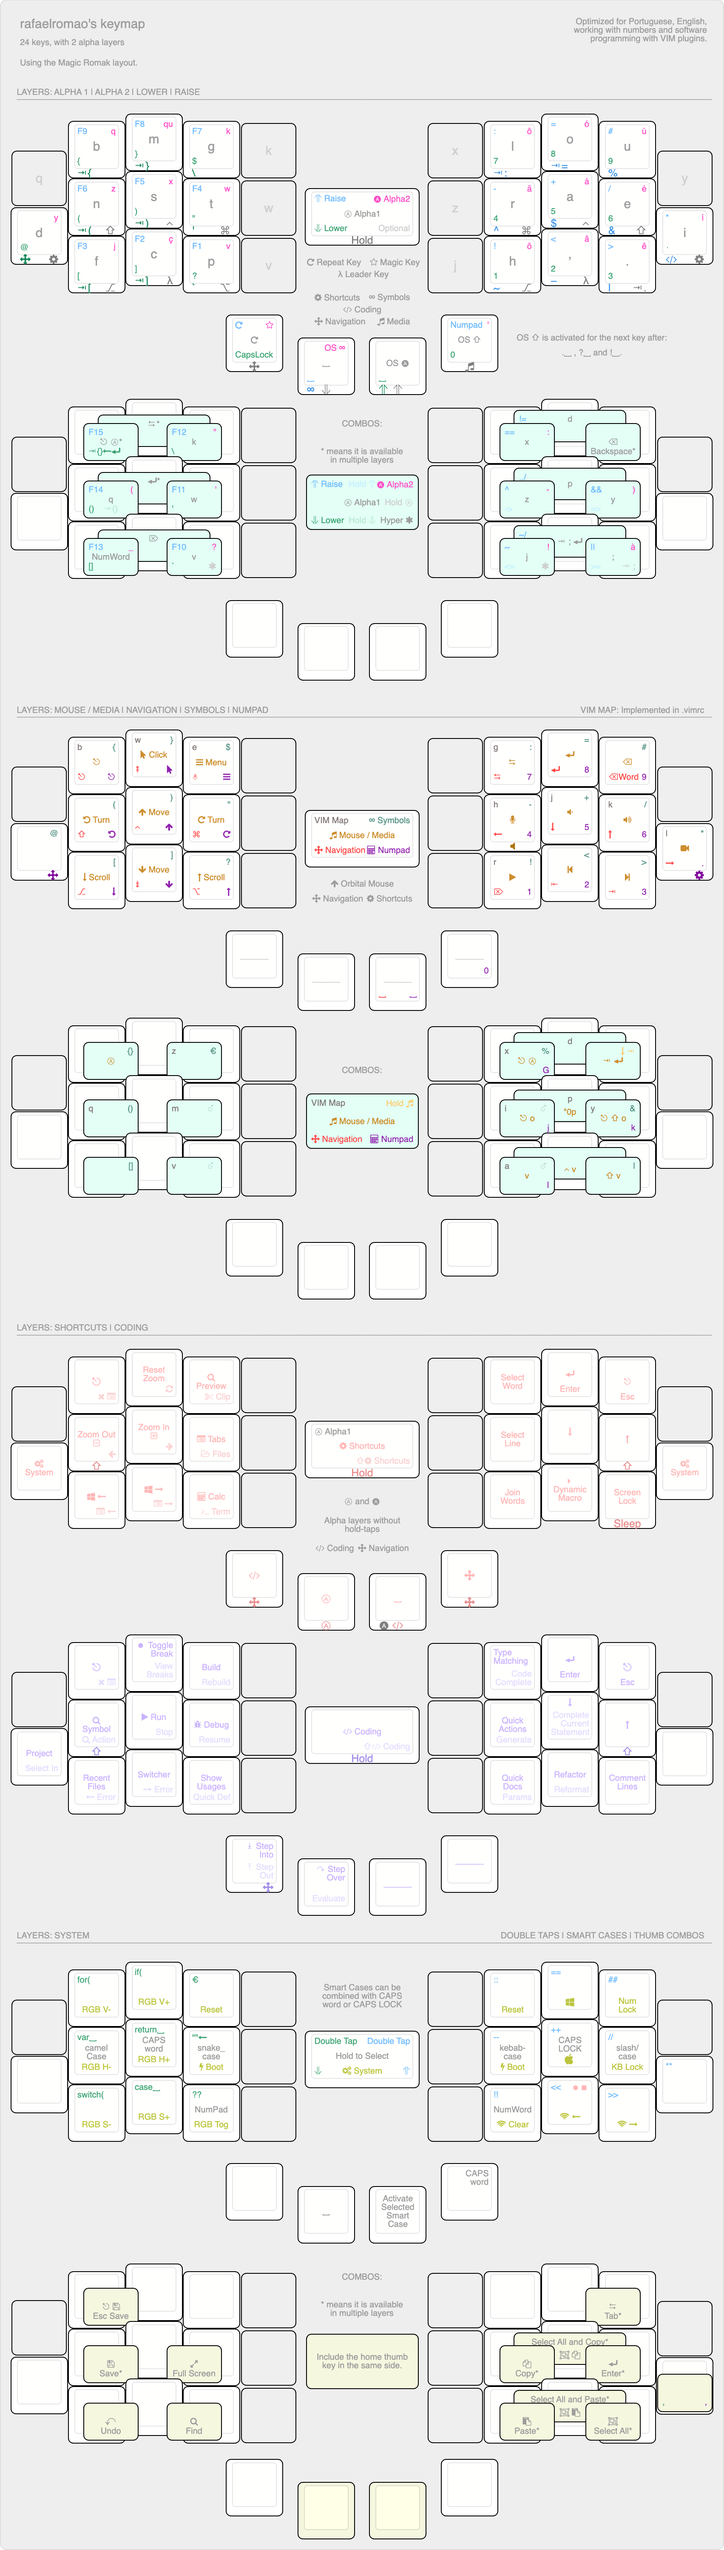
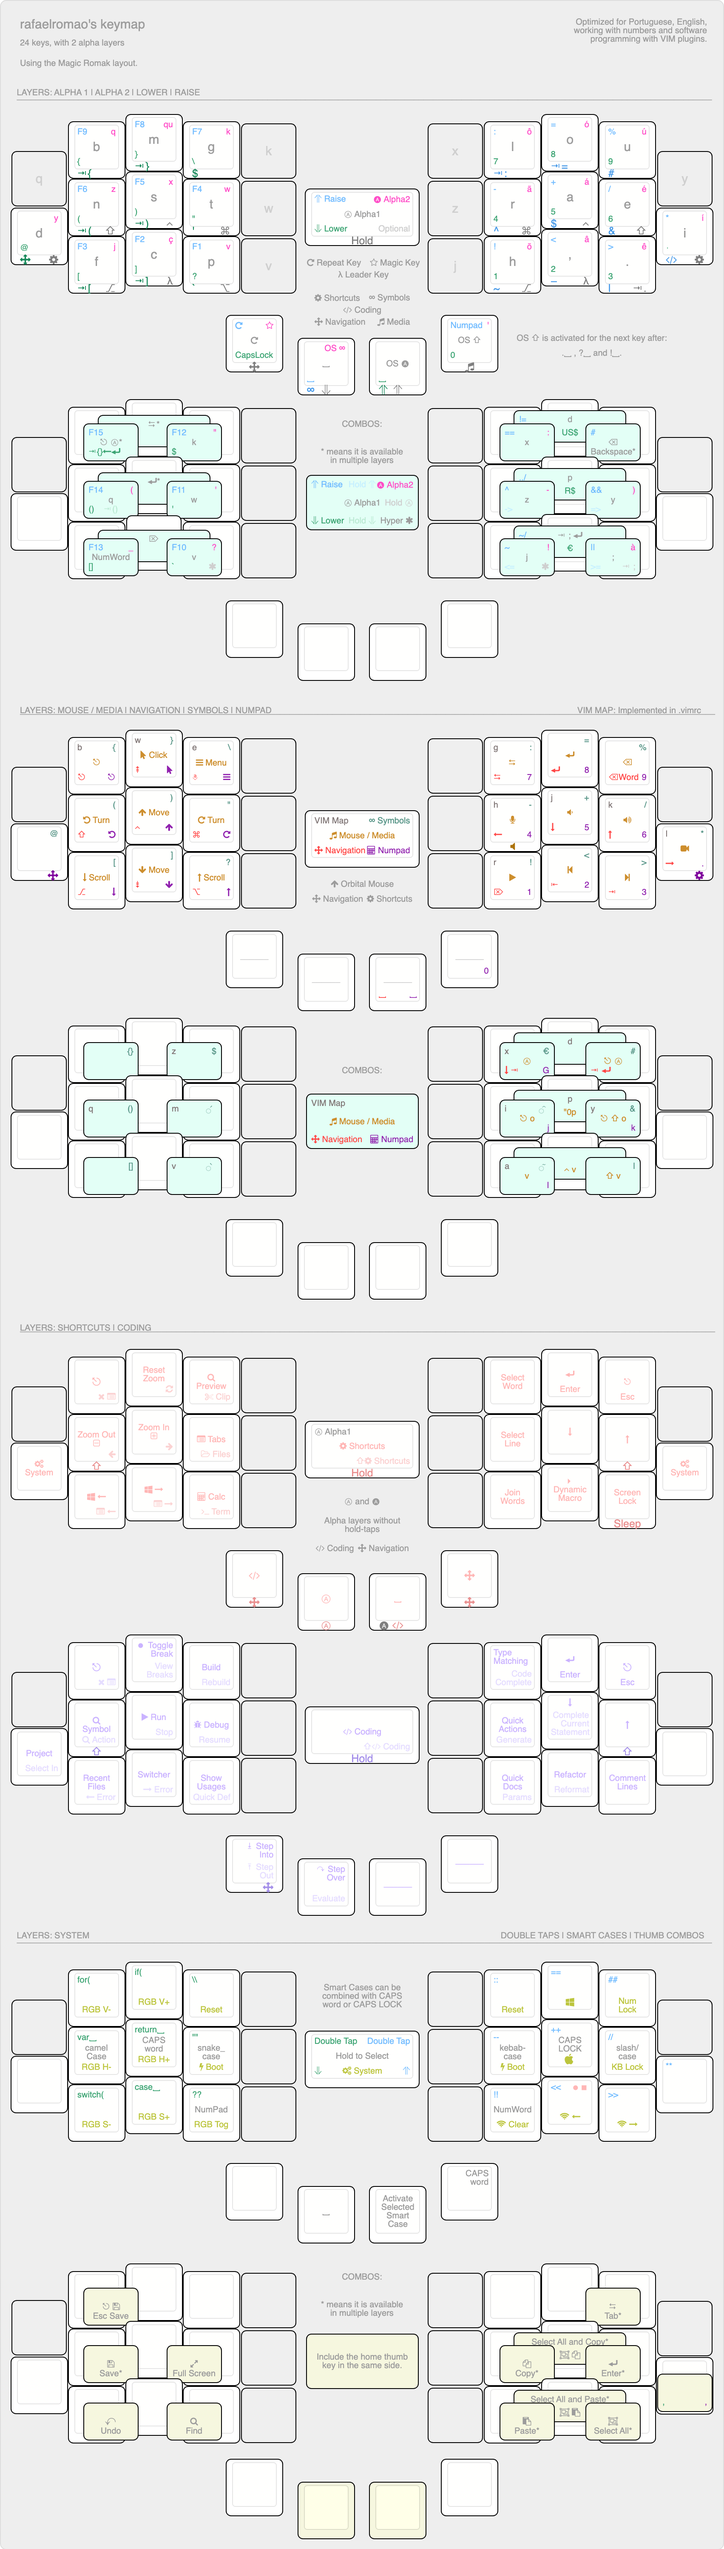
improve symbol layers and combos for numbers, media and navigation layers

diff --git a/src/qmk/users/rafaelromao/features/combos.c b/src/qmk/users/rafaelromao/features/combos.c
@@ -71,7 +71,7 @@ const uint16_t PROGMEM r_num_com_combo[] = {RAI_SPC, SHO_DOT, COMBO_END};
 // Lower
 
 const uint16_t PROGMEM l_low_cur_combo[] = {TD_LCBR, TD_RCBR, COMBO_END};
-const uint16_t PROGMEM l_low_bsl_combo[] = {TD_RCBR, TD_DLR, COMBO_END};
+const uint16_t PROGMEM l_low_dol_combo[] = {TD_RCBR, TD_BSLS, COMBO_END};
 const uint16_t PROGMEM l_low_par_combo[] = {TD_LPRN, TD_RPRN, COMBO_END};
 const uint16_t PROGMEM l_low_bra_combo[] = {TD_LBRC, TD_RBRC, COMBO_END};
 const uint16_t PROGMEM l_low_sqo_combo[] = {TD_RPRN, TD_DQUO, COMBO_END};
@@ -82,7 +82,9 @@ const uint16_t PROGMEM r_low_tab_combo[]  = {RAI_SPC, KC_8, KC_9, COMBO_END};
 const uint16_t PROGMEM r_low_ent_combo[]  = {RAI_SPC, KC_5, KC_6, COMBO_END};
 const uint16_t PROGMEM r_low_sco_combo[]  = {KC_2, KC_3, COMBO_END};
 const uint16_t PROGMEM r_low_com_combo[]  = {RAI_SPC, KC_DOT, COMBO_END};
-const uint16_t PROGMEM r_low_sent_combo[] = {KC_1, KC_2, KC_3, COMBO_END};
+const uint16_t PROGMEM r_low_us_combo[]   = {KC_7, KC_8, KC_9, COMBO_END};
+const uint16_t PROGMEM r_low_br_combo[]   = {KC_4, KC_5, KC_6, COMBO_END};
+const uint16_t PROGMEM r_low_eur_combo[]  = {KC_1, KC_2, KC_3, COMBO_END};
 const uint16_t PROGMEM r_low_sfg_combo[]  = {KC_7, KC_8, COMBO_END};
 const uint16_t PROGMEM r_low_j_combo[]    = {KC_4, KC_5, COMBO_END};
 const uint16_t PROGMEM r_low_k_combo[]    = {KC_5, KC_6, COMBO_END};
@@ -103,50 +105,50 @@ const uint16_t PROGMEM l_rai_f14_combo[] = {KC_F5, KC_F6, COMBO_END};
 const uint16_t PROGMEM l_rai_f15_combo[] = {KC_F8, KC_F9, COMBO_END};
 
 const uint16_t PROGMEM r_rai_deq_combo[]  = {TD_COLN, TD_EQL, COMBO_END};
-const uint16_t PROGMEM r_rai_neq_combo[]  = {TD_COLN, TD_EQL, TD_HASH, COMBO_END};
+const uint16_t PROGMEM r_rai_neq_combo[]  = {TD_COLN, TD_EQL, TD_PERC, COMBO_END};
 const uint16_t PROGMEM r_rai_cir_combo[]  = {TD_MINS, TD_PLUS, COMBO_END};
 const uint16_t PROGMEM r_rai_dan_combo[]  = {TD_PLUS, TD_SLSH, COMBO_END};
 const uint16_t PROGMEM r_rai_dds_combo[]  = {TD_MINS, TD_PLUS, TD_SLSH, COMBO_END};
-const uint16_t PROGMEM r_rai_bsp_combo[]  = {TD_EQL, TD_HASH, COMBO_END};
+const uint16_t PROGMEM r_rai_hash_combo[] = {TD_EQL, TD_PERC, COMBO_END};
 const uint16_t PROGMEM r_rai_til_combo[]  = {TD_EXLM, TD_LT, COMBO_END};
 const uint16_t PROGMEM r_rai_dor_combo[]  = {TD_LT, TD_GT, COMBO_END};
 const uint16_t PROGMEM r_rai_tisl_combo[] = {TD_EXLM, TD_LT, TD_GT, COMBO_END};
 
 // Navigation
 
-const uint16_t PROGMEM l_nav_esc_combo[] = {MC_ESC, KC_PGUP, COMBO_END};
-const uint16_t PROGMEM r_nav_ent_combo[] = {KC_SPC, KC_DOWN, KC_UP, COMBO_END};
-const uint16_t PROGMEM r_nav_cop_combo[] = {KC_SPC, KC_LEFT, KC_DOWN, COMBO_END};
-const uint16_t PROGMEM r_nav_pas_combo[] = {KC_SPC, KC_DEL, KC_HOME, COMBO_END};
-const uint16_t PROGMEM r_nav_bsp_combo[] = {KC_ENT, MC_DELW, COMBO_END};
+const uint16_t PROGMEM l_nav_esc_combo[]  = {MC_ESC, KC_PGUP, COMBO_END};
+const uint16_t PROGMEM r_nav_ent_combo[]  = {KC_SPC, KC_DOWN, KC_UP, COMBO_END};
+const uint16_t PROGMEM r_nav_cop_combo[]  = {KC_SPC, KC_LEFT, KC_DOWN, COMBO_END};
+const uint16_t PROGMEM r_nav_pas_combo[]  = {KC_SPC, KC_DEL, KC_HOME, COMBO_END};
+const uint16_t PROGMEM r_nav_eent_combo[] = {KC_ENT, MC_DELW, COMBO_END};
+const uint16_t PROGMEM r_nav_dent_combo[] = {MC_TAB, KC_ENT, COMBO_END};
 
 // Media
 
-const uint16_t PROGMEM l_med_a1_combo[]  = {KC_ESC, OM_BTN1, COMBO_END};
-const uint16_t PROGMEM r_med_ent_combo[] = {KC_ENT, KC_BSPC, COMBO_END};
+const uint16_t PROGMEM l_med_esc_combo[] = {KC_ESC, OM_BTN1, COMBO_END};
 const uint16_t PROGMEM r_med_vis_combo[] = {KC_MPLY, KC_MPRV, COMBO_END};
 const uint16_t PROGMEM r_med_svi_combo[] = {KC_MPRV, KC_MNXT, COMBO_END};
 const uint16_t PROGMEM r_med_cvi_combo[] = {KC_MPLY, KC_MPRV, KC_MNXT, COMBO_END};
 const uint16_t PROGMEM r_med_esp_combo[] = {MC_MIC, KC_VOLD, KC_VOLU, COMBO_END};
-const uint16_t PROGMEM r_med_esc_combo[] = {KC_TAB, KC_ENT, COMBO_END};
 const uint16_t PROGMEM r_med_oes_combo[] = {MC_MIC, KC_VOLD, COMBO_END};
 const uint16_t PROGMEM r_med_soe_combo[] = {KC_VOLD, KC_VOLU, COMBO_END};
+const uint16_t PROGMEM r_med_a1_combo[]  = {KC_TAB, KC_ENT, COMBO_END};
+const uint16_t PROGMEM r_med_esc_combo[] = {KC_ENT, KC_BSPC, COMBO_END};
 
 // Symbols
 
-const uint16_t PROGMEM l_sym_eur_combo[] = {KC_RCBR, KC_DLR, COMBO_END};
+const uint16_t PROGMEM l_sym_dlr_combo[] = {KC_RCBR, KC_DLR, COMBO_END};
 const uint16_t PROGMEM l_sym_cur_combo[] = {KC_LCBR, KC_RCBR, COMBO_END};
 const uint16_t PROGMEM l_sym_par_combo[] = {KC_LPRN, KC_RPRN, COMBO_END};
 const uint16_t PROGMEM l_sym_bra_combo[] = {KC_LBRC, KC_RBRC, COMBO_END};
 const uint16_t PROGMEM l_sym_quo_combo[] = {KC_RPRN, MC_DQUO, COMBO_END};
 const uint16_t PROGMEM l_sym_grv_combo[] = {KC_RBRC, KC_QUES, COMBO_END};
 
-const uint16_t PROGMEM r_sym_perc_combo[] = {KC_COLN, KC_EQL, COMBO_END};
-const uint16_t PROGMEM r_sym_cir_combo[]  = {KC_MINS, KC_PLUS, COMBO_END};
-const uint16_t PROGMEM r_sym_til_combo[]  = {KC_EXLM, KC_LT, COMBO_END};
-const uint16_t PROGMEM r_sym_bsp_combo[]  = {KC_EQL, KC_HASH, COMBO_END};
-const uint16_t PROGMEM r_sym_amp_combo[]  = {KC_PLUS, KC_SLSH, COMBO_END};
-const uint16_t PROGMEM r_sym_pip_combo[]  = {KC_LT, KC_GT, COMBO_END};
+const uint16_t PROGMEM r_sym_eur_combo[] = {KC_COLN, KC_EQL, COMBO_END};
+const uint16_t PROGMEM r_sym_cir_combo[] = {KC_MINS, KC_PLUS, COMBO_END};
+const uint16_t PROGMEM r_sym_til_combo[] = {KC_EXLM, KC_LT, COMBO_END};
+const uint16_t PROGMEM r_sym_amp_combo[] = {KC_PLUS, KC_SLSH, COMBO_END};
+const uint16_t PROGMEM r_sym_pip_combo[] = {KC_LT, KC_GT, COMBO_END};
 
 // Coding and Shortcuts
 
@@ -158,46 +160,46 @@ const uint16_t PROGMEM r_sho_bsp_combo[] = {MC_ENT, MC_ESC, COMBO_END};
 const uint16_t PROGMEM secret_1_combo[] = {SEC_1, SEC_2, SEC_3, SEC_4, COMBO_END};
 
 combo_t key_combos[] = {
-    COMBO(l_med_a1_combo, TO_A1),       COMBO(l_low_sqo_combo, MC_SQUO),  COMBO(l_low_bti_combo, MC_BTIC),
-    COMBO(r_low_sfg_combo, LSFT(KC_L)), COMBO(l_low_bsl_combo, KC_BSLS),  COMBO(r_low_sent_combo, MC_SENT),
-    COMBO(r_low_j_combo, KC_A),         COMBO(r_low_k_combo, KC_E),       COMBO(r_low_pip_combo, KC_PIPE),
-    COMBO(l_sym_cur_combo, MC_CURS),    COMBO(l_sym_par_combo, TD_PARN),  COMBO(l_sym_bra_combo, MC_BRAC),
-    COMBO(l_sym_quo_combo, KC_QUOT),    COMBO(l_sym_grv_combo, KC_GRV),   COMBO(l_sym_eur_combo, MC_EUR),
-    COMBO(r_sym_perc_combo, KC_PERC),   COMBO(r_sym_cir_combo, KC_CIRC),  COMBO(r_sym_amp_combo, KC_AMPR),
-    COMBO(r_sym_pip_combo, KC_PIPE),    COMBO(r_sym_til_combo, KC_TILD),  COMBO(r_sym_bsp_combo, KC_BSPC),
-    COMBO(r_low_com_combo, KC_COMM),    COMBO(r_num_com_combo, KC_COMM),  COMBO(l_acc_esc_combo, MC_ESCC),
-    COMBO(l_acc_und_combo, KC_UNDS),    COMBO(l_acc_ques_combo, MC_QUES), COMBO(l_acc_dqo_combo, MC_DQUO),
-    COMBO(l_low_cur_combo, MC_CUR),     COMBO(l_low_bra_combo, MC_BRAC),  COMBO(l_low_par_combo, TD_PARN),
-    COMBO(l_nav_esc_combo, MC_ESCC),    COMBO(l_num_ent_combo, KC_ENT),   COMBO(l_num_num_combo, TO_A1),
-    COMBO(l_num_sav_combo, MC_SAVE),    COMBO(l_rai_f10_combo, KC_F10),   COMBO(l_rai_f11_combo, KC_F11),
-    COMBO(l_rai_f12_combo, KC_F12),     COMBO(l_rai_f13_combo, KC_F13),   COMBO(l_rai_f14_combo, KC_F14),
-    COMBO(l_rai_f15_combo, KC_F15),     COMBO(l_rom_esc_combo, MC_ESCC),  COMBO(l_rom_esv_combo, MC_ESAV),
-    COMBO(l_rom_fin_combo, MC_FIND),    COMBO(l_rom_ful_combo, MC_FULL),  COMBO(l_rom_del_combo, KC_DEL),
-    COMBO(l_rom_q_combo, KC_Q),         COMBO(l_rom_k_combo, KC_K),       COMBO(l_nom_num_combo, TG_NUMC),
-    COMBO(l_rom_num_combo, TG_NUMC),    COMBO(l_rom_sav_combo, MC_SAVE),  COMBO(l_rom_und_combo, MC_UNDO),
-    COMBO(l_rom_v_combo, HYP_KCV),      COMBO(l_rom_w_combo, KC_W),       COMBO(l_acc_lpa_combo, KC_LPRN),
-    COMBO(l_acc_sqo_combo, MC_SQUO),    COMBO(r_acc_rpa_combo, KC_RPRN),  COMBO(r_acc_bsp_combo, KC_BSPC),
-    COMBO(r_acc_col_combo, KC_COLN),    COMBO(r_acc_excl_combo, MC_EXLM), COMBO(r_acc_min_combo, KC_MINS),
-    COMBO(r_acc_agr_combo, MC_GV_A),    COMBO(r_low_ent_combo, KC_ENT),   COMBO(r_low_sco_combo, TD_SCLE),
-    COMBO(r_med_ent_combo, TD_EENT),    COMBO(r_med_vis_combo, KC_V),     COMBO(r_med_svi_combo, MC_SVI),
-    COMBO(r_med_esc_combo, MC_ESC),     COMBO(r_med_esp_combo, MC_0P),    COMBO(r_med_cvi_combo, MC_CVI),
-    COMBO(r_med_oes_combo, MC_OESC),    COMBO(r_med_soe_combo, MC_SOES),  COMBO(r_nav_cop_combo, MC_COPY),
-    COMBO(r_nav_ent_combo, KC_ENT),     COMBO(r_nav_pas_combo, MC_PAST),  COMBO(r_low_bsp_combo, KC_BSPC),
-    COMBO(r_nav_bsp_combo, KC_BSPC),    COMBO(l_num_tab_combo, KC_TAB),   COMBO(l_num_del_combo, KC_DEL),
-    COMBO(r_low_tab_combo, KC_TAB),     COMBO(r_rai_bsp_combo, KC_BSPC),  COMBO(r_rai_deq_combo, MC_DEQ),
-    COMBO(r_rai_til_combo, TD_TIL),     COMBO(r_rai_dor_combo, TD_DOR),   COMBO(r_rai_tisl_combo, MC_TISL),
-    COMBO(r_rai_dds_combo, MC_DDS),     COMBO(r_rai_neq_combo, MC_NEQ),   COMBO(r_rai_dan_combo, TD_DAND),
-    COMBO(r_rai_cir_combo, TD_CIRC),    COMBO(r_rom_bsp_combo, KC_BSPC),  COMBO(r_rom_d_combo, KC_D),
-    COMBO(r_rom_p_combo, KC_P),         COMBO(l_rom_ent_combo, KC_ENT),   COMBO(r_rom_ent_combo, KC_ENT),
-    COMBO(r_rom_j_combo, HYP_KCJ),      COMBO(r_rom_cop_combo, MC_COPY),  COMBO(r_rom_pas_combo, MC_PAST),
-    COMBO(r_rom_sal_combo, MC_SELC),    COMBO(r_rom_scp_combo, MC_SCOP),  COMBO(r_rom_spa_combo, MC_SPAS),
-    COMBO(r_low_cop_combo, MC_COPY),    COMBO(r_low_pas_combo, MC_PAST),  COMBO(r_low_sal_combo, MC_SELC),
-    COMBO(r_low_scp_combo, MC_SCOP),    COMBO(r_low_spa_combo, MC_SPAS),  COMBO(r_rom_sco_combo, TD_SCLE),
-    COMBO(r_rom_sent_combo, MC_SENT),   COMBO(l_rom_tab_combo, KC_TAB),   COMBO(r_rom_tab_combo, KC_TAB),
-    COMBO(l_acc_ent_combo, KC_ENT),     COMBO(r_acc_ent_combo, KC_ENT),   COMBO(l_acc_tab_combo, KC_TAB),
-    COMBO(r_acc_tab_combo, KC_TAB),     COMBO(r_rom_z_combo, KC_Z),       COMBO(r_rom_x_combo, KC_X),
-    COMBO(r_rom_y_combo, KC_Y),         COMBO(r_sho_bsp_combo, KC_BSPC),  COMBO(l_cod_esc_combo, MC_ESCC),
-    COMBO(secret_1_combo, MC_SECRET_1)};
+    COMBO(l_med_esc_combo, MC_ESCC),    COMBO(l_low_sqo_combo, MC_SQUO),  COMBO(l_low_bti_combo, MC_BTIC),
+    COMBO(r_low_sfg_combo, LSFT(KC_L)), COMBO(l_low_dol_combo, KC_DLR),   COMBO(r_low_us_combo, MC_US),
+    COMBO(r_low_br_combo, MC_BR),       COMBO(r_low_eur_combo, MC_EUR),   COMBO(r_low_j_combo, KC_A),
+    COMBO(r_low_k_combo, KC_E),         COMBO(r_low_pip_combo, KC_PIPE),  COMBO(l_sym_cur_combo, MC_CURS),
+    COMBO(l_sym_par_combo, TD_PARN),    COMBO(l_sym_bra_combo, MC_BRAC),  COMBO(l_sym_quo_combo, KC_QUOT),
+    COMBO(l_sym_grv_combo, KC_GRV),     COMBO(l_sym_dlr_combo, KC_DLR),   COMBO(r_sym_eur_combo, MC_EUR),
+    COMBO(r_sym_cir_combo, KC_CIRC),    COMBO(r_sym_amp_combo, KC_AMPR),  COMBO(r_sym_pip_combo, KC_PIPE),
+    COMBO(r_sym_til_combo, KC_TILD),    COMBO(r_low_com_combo, KC_COMM),  COMBO(r_num_com_combo, KC_COMM),
+    COMBO(l_acc_esc_combo, MC_ESCC),    COMBO(l_acc_und_combo, KC_UNDS),  COMBO(l_acc_ques_combo, MC_QUES),
+    COMBO(l_acc_dqo_combo, MC_DQUO),    COMBO(l_low_cur_combo, MC_CUR),   COMBO(l_low_bra_combo, MC_BRAC),
+    COMBO(l_low_par_combo, TD_PARN),    COMBO(l_nav_esc_combo, MC_ESCC),  COMBO(l_num_ent_combo, KC_ENT),
+    COMBO(l_num_num_combo, TO_A1),      COMBO(l_num_sav_combo, MC_SAVE),  COMBO(l_rai_f10_combo, KC_F10),
+    COMBO(l_rai_f11_combo, KC_F11),     COMBO(l_rai_f12_combo, KC_F12),   COMBO(l_rai_f13_combo, KC_F13),
+    COMBO(l_rai_f14_combo, KC_F14),     COMBO(l_rai_f15_combo, KC_F15),   COMBO(l_rom_esc_combo, MC_ESCC),
+    COMBO(l_rom_esv_combo, MC_ESAV),    COMBO(l_rom_fin_combo, MC_FIND),  COMBO(l_rom_ful_combo, MC_FULL),
+    COMBO(l_rom_del_combo, KC_DEL),     COMBO(l_rom_q_combo, KC_Q),       COMBO(l_rom_k_combo, KC_K),
+    COMBO(l_nom_num_combo, TG_NUMC),    COMBO(l_rom_num_combo, TG_NUMC),  COMBO(l_rom_sav_combo, MC_SAVE),
+    COMBO(l_rom_und_combo, MC_UNDO),    COMBO(l_rom_v_combo, HYP_KCV),    COMBO(l_rom_w_combo, KC_W),
+    COMBO(l_acc_lpa_combo, KC_LPRN),    COMBO(l_acc_sqo_combo, MC_SQUO),  COMBO(r_acc_rpa_combo, KC_RPRN),
+    COMBO(r_acc_bsp_combo, KC_BSPC),    COMBO(r_acc_col_combo, KC_COLN),  COMBO(r_acc_excl_combo, MC_EXLM),
+    COMBO(r_acc_min_combo, KC_MINS),    COMBO(r_acc_agr_combo, MC_GV_A),  COMBO(r_low_ent_combo, KC_ENT),
+    COMBO(r_low_sco_combo, TD_SCLE),    COMBO(r_med_a1_combo, TO_A1),     COMBO(r_med_vis_combo, KC_V),
+    COMBO(r_med_svi_combo, MC_SVI),     COMBO(r_med_esc_combo, MC_ESCC),  COMBO(r_med_esp_combo, MC_0P),
+    COMBO(r_med_cvi_combo, MC_CVI),     COMBO(r_med_oes_combo, MC_OESC),  COMBO(r_med_soe_combo, MC_SOES),
+    COMBO(r_nav_cop_combo, MC_COPY),    COMBO(r_nav_ent_combo, KC_ENT),   COMBO(r_nav_pas_combo, MC_PAST),
+    COMBO(r_low_bsp_combo, KC_BSPC),    COMBO(r_nav_eent_combo, MC_EENT), COMBO(r_nav_dent_combo, MC_DEND),
+    COMBO(l_num_tab_combo, KC_TAB),     COMBO(l_num_del_combo, KC_DEL),   COMBO(r_low_tab_combo, KC_TAB),
+    COMBO(r_rai_hash_combo, KC_HASH),   COMBO(r_rai_deq_combo, MC_DEQ),   COMBO(r_rai_til_combo, TD_TIL),
+    COMBO(r_rai_dor_combo, TD_DOR),     COMBO(r_rai_tisl_combo, MC_TISL), COMBO(r_rai_dds_combo, MC_DDS),
+    COMBO(r_rai_neq_combo, MC_NEQ),     COMBO(r_rai_dan_combo, TD_DAND),  COMBO(r_rai_cir_combo, TD_CIRC),
+    COMBO(r_rom_bsp_combo, KC_BSPC),    COMBO(r_rom_d_combo, KC_D),       COMBO(r_rom_p_combo, KC_P),
+    COMBO(l_rom_ent_combo, KC_ENT),     COMBO(r_rom_ent_combo, KC_ENT),   COMBO(r_rom_j_combo, HYP_KCJ),
+    COMBO(r_rom_cop_combo, MC_COPY),    COMBO(r_rom_pas_combo, MC_PAST),  COMBO(r_rom_sal_combo, MC_SELC),
+    COMBO(r_rom_scp_combo, MC_SCOP),    COMBO(r_rom_spa_combo, MC_SPAS),  COMBO(r_low_cop_combo, MC_COPY),
+    COMBO(r_low_pas_combo, MC_PAST),    COMBO(r_low_sal_combo, MC_SELC),  COMBO(r_low_scp_combo, MC_SCOP),
+    COMBO(r_low_spa_combo, MC_SPAS),    COMBO(r_rom_sco_combo, TD_SCLE),  COMBO(r_rom_sent_combo, MC_SENT),
+    COMBO(l_rom_tab_combo, KC_TAB),     COMBO(r_rom_tab_combo, KC_TAB),   COMBO(l_acc_ent_combo, KC_ENT),
+    COMBO(r_acc_ent_combo, KC_ENT),     COMBO(l_acc_tab_combo, KC_TAB),   COMBO(r_acc_tab_combo, KC_TAB),
+    COMBO(r_rom_z_combo, KC_Z),         COMBO(r_rom_x_combo, KC_X),       COMBO(r_rom_y_combo, KC_Y),
+    COMBO(r_sho_bsp_combo, KC_BSPC),    COMBO(l_cod_esc_combo, MC_ESCC),  COMBO(secret_1_combo, MC_SECRET_1)};
 
 bool combo_should_trigger(uint16_t combo_index, combo_t *combo, uint16_t keycode, keyrecord_t *record) {
     switch (combo->keycode) {

diff --git a/src/qmk/users/rafaelromao/definitions/keymap_blocks.h b/src/qmk/users/rafaelromao/definitions/keymap_blocks.h
@@ -15,7 +15,7 @@
 #define __________________ALPHA1_R3__________           KC_J    , RALTT_H , TD_COMM , TD_DOT  
 #define ___ALPHA1_R4_____                               RAI_A2  , MED_CAS 
 
-#define ___________________LOWER_L1__________           XXXXXXX , TD_LCBR , TD_RCBR , TD_DLR 
+#define ___________________LOWER_L1__________           XXXXXXX , TD_LCBR , TD_RCBR , TD_BSLS
 #define ___________________LOWER_L2____________________ NAV_AT  , TD_LPRN , TD_RPRN , TD_DQUO , XXXXXXX
 #define           _________LOWER_L3____________________           TD_LBRC , TD_RBRC , TD_QUES , XXXXXXX
 #define                               ____LOWER_L4_____                               KC_CAPS , _______
@@ -30,7 +30,7 @@
 #define           _________RAISE_L3____________________           KC_F3   , KC_F2   , KC_F1   , XXXXXXX
 #define                               ____RAISE_L4_____                               QK_REP  , SYM_SPC
 
-#define           _________RAISE_R1____________________           TD_COLN , TD_EQL  , TD_HASH , XXXXXXX
+#define           _________RAISE_R1____________________           TD_COLN , TD_EQL  , TD_PERC , XXXXXXX
 #define ___________________RAISE_R2____________________ XXXXXXX , TD_MINS , TD_PLUS , TD_SLSH , COD_AST
 #define ___________________RAISE_R3__________           XXXXXXX , TD_EXLM , TD_LT   , TD_GT     
 #define ____RAISE_R4_____                               _______ , TG_NUM
@@ -90,7 +90,7 @@
 #define           _______SYMBOLS_L3____________________           KC_LBRC , KC_RBRC , KC_QUES , XXXXXXX
 #define                               __SYMBOLS_L4_____                               KC_CAPS , KC_SPC 
 
-#define           _______SYMBOLS_R1____________________           KC_COLN , KC_EQL  , KC_HASH , XXXXXXX
+#define           _______SYMBOLS_R1____________________           KC_COLN , KC_EQL  , KC_PERC , XXXXXXX
 #define _________________SYMBOLS_R2____________________ XXXXXXX , KC_MINS , KC_PLUS , KC_SLSH , KC_ASTR
 #define _________________SYMBOLS_R3__________           XXXXXXX , KC_EXLM , KC_LT   , KC_GT     
 #define __SYMBOLS_R4_____                               KC_SPC  , TG_NUM
@@ -101,7 +101,7 @@
 #define                               __NAVIGATION_L4__                               _______ , _______
 #define                               __FIXED_NAV__L4__                               _______ , KC_SPC
 
-#define           _________NAVIGATION_R1_______________           KC_TAB  , KC_ENT  , MC_DELW , XXXXXXX
+#define           _________NAVIGATION_R1_______________           MC_TAB  , KC_ENT  , MC_DELW , XXXXXXX
 #define ___________________NAVIGATION_R2_______________ XXXXXXX , KC_LEFT , KC_DOWN , KC_UP   , KC_RGHT
 #define ___________________NAVIGATION_R3_____           XXXXXXX , KC_DEL  , KC_HOME , KC_END  
 #define __NAVIGATION_R4__                               KC_SPC  , MED_CAS

diff --git a/src/qmk/users/rafaelromao/features/tapdance.c b/src/qmk/users/rafaelromao/features/tapdance.c
@@ -78,22 +78,6 @@ void td_close_parentesis(tap_dance_state_t *state, void *user_data) {
     }
 }
 
-void td_enter_end(tap_dance_state_t *state, void *user_data) {
-    tap_state.state = dance_state(state);
-    switch (tap_state.state) {
-        case TD_SINGLE_TAP:
-            tap_code16(KC_END);
-            tap_code(KC_ENT);
-            break;
-        case TD_DOUBLE_TAP:
-        case TD_SINGLE_HOLD:
-            SEND_STRING(SS_TAP(X_DOWN) SS_DELAY(100) SS_TAP(X_END));
-            break;
-        default:
-            break;
-    }
-}
-
 void td_open_curly_braces(tap_dance_state_t *state, void *user_data) {
     tap_state.state = dance_state(state);
     switch (tap_state.state) {
@@ -153,13 +137,14 @@ void td_dlr(tap_dance_state_t *state, void *user_data) {
     tap_state.state = dance_state(state);
     switch (tap_state.state) {
         case TD_SINGLE_TAP:
-            tap_code16(KC_DLR);
-            break;
-        case TD_SINGLE_HOLD:
             tap_code16(KC_BSLS);
             break;
+        case TD_SINGLE_HOLD:
+            tap_code16(KC_DLR);
+            break;
         case TD_DOUBLE_TAP:
-            process_macros(MC_EUR, NULL);
+            tap_code16(KC_BSLS);
+            tap_code16(KC_BSLS);
             break;
         default:
             break;
@@ -427,19 +412,10 @@ void td_hash(tap_dance_state_t *state, void *user_data) {
 
     switch (tap_state.state) {
         case TD_SINGLE_TAP:
-            tap_code16(KC_HASH);
-            break;
-        case TD_DOUBLE_TAP:
-            tap_code16(KC_HASH);
-            tap_code16(KC_HASH);
-            break;
-        case TD_TRIPLE_TAP:
-            tap_code16(KC_HASH);
-            tap_code16(KC_HASH);
-            tap_code16(KC_HASH);
+            tap_code16(KC_PERC);
             break;
         case TD_SINGLE_HOLD:
-            tap_code16(KC_PERC);
+            tap_code16(KC_HASH);
             break;
         default:
             break;
@@ -591,7 +567,6 @@ void td_dand(tap_dance_state_t *state, void *user_data) {
 // Tap dance declarations
 
 tap_dance_action_t tap_dance_actions[] = {
-    [ENT_END] = ACTION_TAP_DANCE_FN(td_enter_end),
     [SCL_END] = ACTION_TAP_DANCE_FN(td_semicolon),
     [BRT_LCR] = ACTION_TAP_DANCE_FN(td_open_curly_braces),
     [BRT_RCR] = ACTION_TAP_DANCE_FN(td_close_curly_braces),

diff --git a/src/qmk/users/rafaelromao/definitions/keycodes.h b/src/qmk/users/rafaelromao/definitions/keycodes.h
@@ -8,7 +8,6 @@
 
 enum { 
     TD_CODE_START, 
-    ENT_END, 
     SCL_END, 
     BRT_LCR, 
     BRT_RCR, 
@@ -43,7 +42,6 @@ enum {
 
 // Tap dance keycodes
 
-#define TD_EENT TD(ENT_END)
 #define TD_SCLE TD(SCL_END)
 #define TD_LCBR TD(BRT_LCR)
 #define TD_RCBR TD(BRT_RCR)
@@ -65,7 +63,7 @@ enum {
 #define TD_COMM TD(LEA_COM)
 #define TD_MINS TD(MIN_CIR)
 #define TD_COLN TD(COL_ECO)
-#define TD_HASH TD(HAS_PER)
+#define TD_PERC TD(HAS_PER)
 #define TD_QUES TD(QUE_EXC)
 #define TD_SLSH TD(SLS_BSL)
 #define TD_EQL TD(EQL_EEQ)
@@ -74,7 +72,7 @@ enum {
 #define TD_DOR TD(DOR_GTE)
 #define TD_CIRC TD(CIR_SAR)
 #define TD_DAND TD(DAN_DAR)
-#define TD_DLR TD(DLR_BSL)
+#define TD_BSLS TD(DLR_BSL)
 
 // Custom keycodes
 
@@ -116,7 +114,7 @@ enum {
     TG_NUMC, MC_EXLM, MC_QUES, MC_ESAV, MC_SENT, MC_DEG, MC_DELW, MC_LY,
     MC_CUR, MC_CURS, MC_DAR, MC_SAR, MC_DEQ, MC_NEQ, MC_BRAC, MC_SEC, 
     MC_DAND, MC_DPIP, MC_OESC, MC_SOES, MC_TISL, MC_SVI, MC_CVI, MC_0P,
-    REPEAT, MAGIC, MC_JOIN,
+    REPEAT, MAGIC, MC_JOIN, MC_EENT, MC_DEND, MC_US, MC_BR,
 
     // End macros that can be shifted
     SFT_MACRO_END,

diff --git a/src/qmk/users/rafaelromao/definitions/keycodes.c b/src/qmk/users/rafaelromao/definitions/keycodes.c
@@ -36,8 +36,8 @@ uint16_t extract_tapping_keycode(uint16_t keycode) {
             return KC_MINS;
         case TD_COLN:
             return KC_COLN;
-        case TD_DLR:
-            return KC_DLR;
+        case TD_BSLS:
+            return KC_BSLS;
         case TD_QUES:
         case MC_QUES:
             return KC_QUES;
@@ -51,8 +51,8 @@ uint16_t extract_tapping_keycode(uint16_t keycode) {
             return MC_TILD;
         case TD_CIRC:
             return MC_CIRC;
-        case TD_HASH:
-            return KC_HASH;
+        case TD_PERC:
+            return KC_PERC;
         default:
             break;
     }

diff --git a/src/qmk/users/rafaelromao/features/shortcuts.c b/src/qmk/users/rafaelromao/features/shortcuts.c
@@ -218,6 +218,19 @@ process_record_result_t process_shortcut_keycode(uint16_t keycode, bool isOneSho
             }
             return PROCESS_RECORD_RETURN_FALSE;
 
+            // End Enter
+
+        case MC_EENT:
+            tap_code16(KC_END);
+            tap_code(KC_ENT);
+            return PROCESS_RECORD_RETURN_FALSE;
+
+            // End Enter
+
+        case MC_DEND:
+            SEND_STRING(SS_TAP(X_DOWN) SS_DELAY(100) SS_TAP(X_END));
+            return PROCESS_RECORD_RETURN_FALSE;
+
             // Esc, Tab, Enter
 
         case MC_ESCC:

diff --git a/src/qmk/users/rafaelromao/features/macros.c b/src/qmk/users/rafaelromao/features/macros.c
@@ -213,6 +213,14 @@ process_record_result_t process_macros(uint16_t keycode, keyrecord_t *record) {
             tap_code16(KC_EXLM);
             start_sentence_case();
             return PROCESS_RECORD_RETURN_FALSE;
+
+        case MC_US:
+            SEND_STRING("US$");
+            return PROCESS_RECORD_RETURN_FALSE;
+
+        case MC_BR:
+            SEND_STRING("R$");
+            return PROCESS_RECORD_RETURN_FALSE;
     }
 
     return PROCESS_RECORD_CONTINUE;
